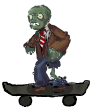
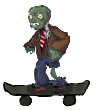
added sprites for cone, flag, fixed transparency of normalzomb1 and pea3

diff --git a/DEVLOG-Leilah.md b/DEVLOG-Leilah.md
@@ -48,4 +48,4 @@ Almost completed main game background. Uploaded sprites (needed to make bg trans
 Completed main game background. Started start screen. 
 
 ### 2024-06-06 - Start, Win, Loss Screens
-Completed start, win, and loss screens. Uploaded. Added them to the game. 
+Completed start, win, and loss screens. Uploaded. Added them to the game. Drew sprites for flag zombie, conehead zombie. Fixed transparency of normal zombie (healthy). Fixed transparency of peashooter (deeply injured).
